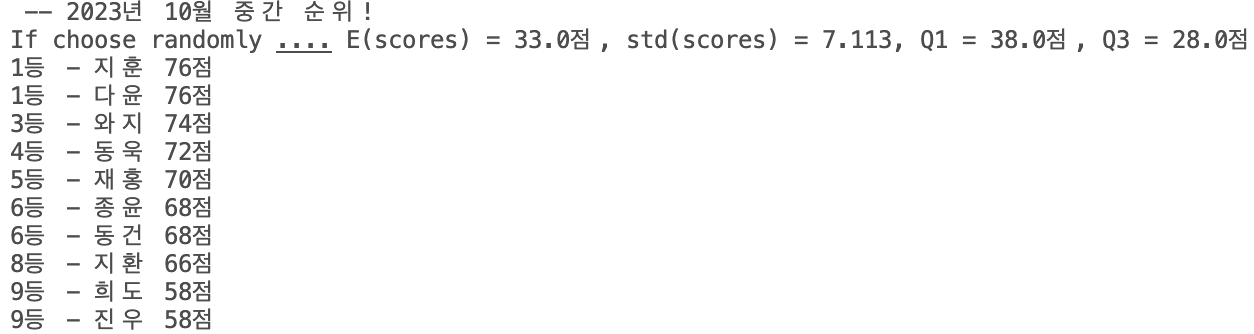
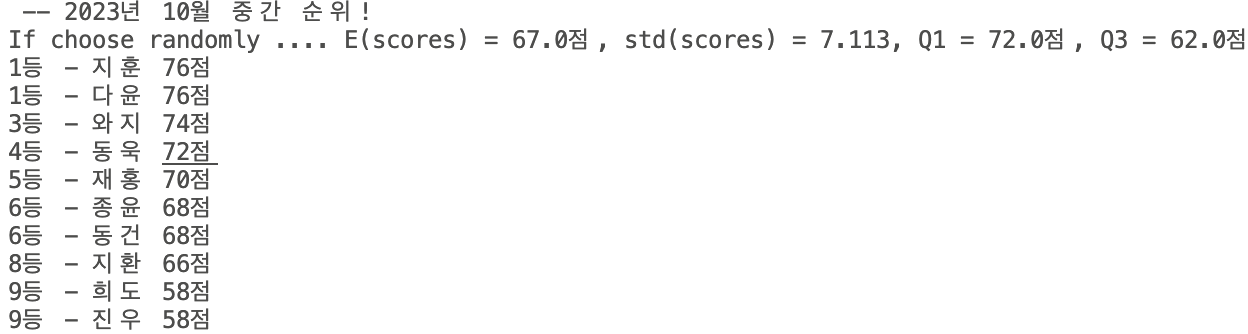
readme

diff --git a/KBO_predict_2023.py b/KBO_predict_2023.py
@@ -59,7 +59,7 @@ def baseline(m):
     candidate = itertools.permutations(range(10),10)
     candidate = list(candidate)
 
-    scores = [sum([abs(result[m][1][i]-c[i]) for i in range(10)]) for c in tqdm.tqdm(candidate)]
+    scores = [100-sum([abs(result[m][1][i]-c[i]) for i in range(10)]) for c in tqdm.tqdm(candidate)]
     
     # scores = [(sum([(c[i]-i)**2 for i in range(10)])/10)**0.5 for c in tqdm.tqdm(candidate)]
     scores = pd.Series(scores)

diff --git a/README.md b/README.md
@@ -1,2 +1,20 @@
 # KBO_rank_predict_2023
  야구톡방에서 열린 2023년 KBO 순위 예측 대회를 위한 프로젝트
+
+# Rule
+모든 참가자가 시즌이 시작되기 전 kbo 순위를 1~10위까지 예측하고 이를 시즌이 끝났을 때 최종순위와 비교. 
+
+계산식은 10개 팀에 대하여 (10-abs(예측순위-실제순위)). 즉 정확히 맞추면 100점.
+
+# Mathematical TMI
+최고점은 100점. 유일하게 완벽한 예측에서만 얻을 수 있는 점수.
+
+최저점은 50점. 다양한 케이스가 존재. 디테일하게는 1-5위팀을 6-10위로 예측하면 됨. 그 안에서 순서는 상관없음. 즉, (5!)^2 개의 경우의 수 존재.
+
+중복순위가 없다면 점수는 항상 짝수. 하지만 중복순위때문에 중간 순위에서 홀수 점수 많이 나옴.
+
+모든 경우의 수에 대해 점수의 분포를 그려보면 왼쪽 tail은 두껍고 오른쪽 tail은 얇음. 평균적인 점수가 최고점과 최저점의 중간(75점)이 아닌 67점.
+
+# Result
+/[image](./final_rank.png)
+/[image](./rank_graph.png)
